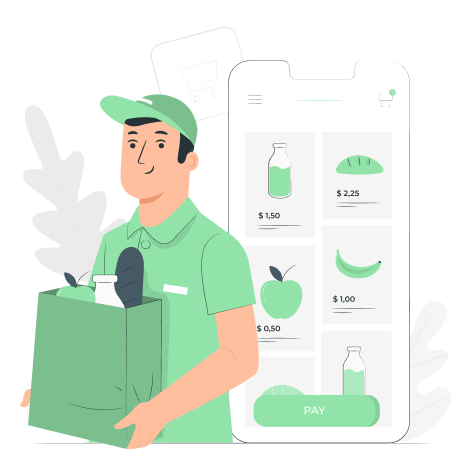
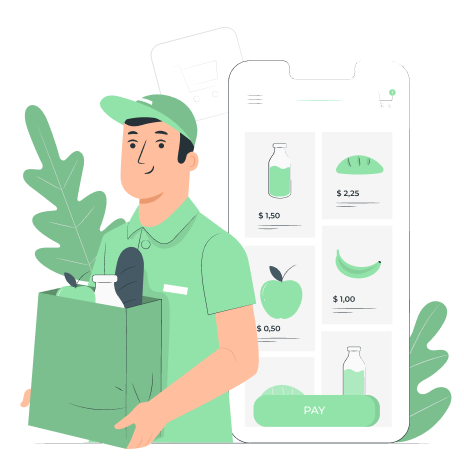
:art: Background inside LandingAside

Changed region(s): [[0.0302, 0.2112, 0.2716, 0.6034], [0.8448, 0.6336, 0.9957, 0.9655]]

diff --git a/frontend/src/components/LandingAside/styles.ts b/frontend/src/components/LandingAside/styles.ts
@@ -1,15 +1,17 @@
 import styled from 'styled-components';
-
+import background from '../../assets/images/background.png';
 export const Container = styled('div')`
   display: flex;
   flex-direction: column;
   align-items: center;
   justify-content: center;
   background-color: var(--commum-card);
-  padding: 1.2rem 2.4rem 2.4rem 2.4rem;
   min-height: calc(100vh * 0.6);
+  position: relative;
+  .content {
+    z-index: 1;
+    padding: 1.2rem 2.4rem 2.4rem 2.4rem;
 
-  div {
     height: calc(100% - 6rem);
     display: flex;
     flex-direction: column;
@@ -34,4 +36,15 @@ export const Container = styled('div')`
     width: 250px;
     height: 250px;
   }
+`;
+
+export const BackgroundDropDown = styled.div`
+  position: absolute;
+  width: 100%;
+  height: 100%;
+
+  background-image: url(${background});
+  background-repeat: no-repeat;
+  background-size: cover;
+  opacity: 0.07;
 `;

diff --git a/frontend/src/components/LandingAside/index.tsx b/frontend/src/components/LandingAside/index.tsx
@@ -1,11 +1,12 @@
 import React from 'react';
-import { Container } from './styles';
+import { Container, BackgroundDropDown } from './styles';
 import LandingImage from '../../assets/images/landing-image.png';
 function LangingAside() {
   return (
     <Container className="landing-aside">
-      <div>
-        <h1 className="logo-title">SeuHortifrutti</h1>
+      <BackgroundDropDown />
+      <div className="content">
+        <h1 className="logo-title">SeuHortifruti</h1>
         <span className="logo-complement">
           Seu hortifrutti nunca esteve tão perto de você!
         </span>

diff --git a/frontend/src/styles/global.ts b/frontend/src/styles/global.ts
@@ -10,7 +10,7 @@ export default createGlobalStyle`
   --color-tittle: #232423;
   --color-primary-text: #32264D;
   --color-secundary-text: #474D47;
-  --commum-background: #F0F0F7;
+  --commum-background: #f1f1f1;
   --commum-input: #FAFAFC;
   --commum-input-text: #9C98A6;
   --commum-border: #E6E6F0;

diff --git a/frontend/src/components/LandingMain/styles.ts b/frontend/src/components/LandingMain/styles.ts
@@ -12,6 +12,5 @@ export const Container = styled.div`
   align-items: flex-start;
   @media (min-width: 800px) {
     align-items: center;
-
   }
 `;
